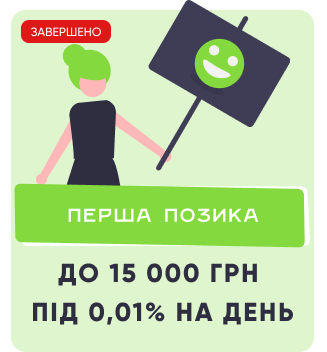
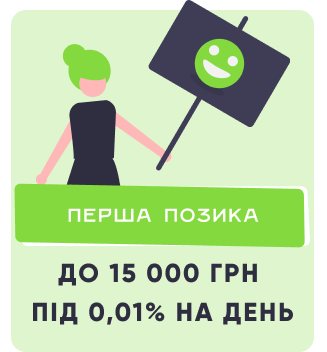
ss

Changed region(s): [[0.0612, 0.0312, 0.3364, 0.125]]

diff --git a/promotions.html b/promotions.html
@@ -92,6 +92,7 @@
                     <div class="promotionsImg">
                         <img src="img/promotionsImg.png" alt="Qcredit" class="promotionsImgDesctop">
                         <img src="img/promotionsImgMobile3.png" alt="Qcredit" class="promotionsImgMobile">
+                        <p>Діюча</p>
                     </div>
                     <div class="promotionsText">
                         <span>14.12.2022</span>
@@ -105,6 +106,7 @@
                     <div class="promotionsImg">
                         <img src="img/promotionsImg2.png" alt="Qcredit" class="promotionsImgDesctop">
                         <img src="img/promotionsImgMobile2.png" alt="Qcredit" class="promotionsImgMobile">
+                        <p>Діюча</p>
                     </div>
                     <div class="promotionsText">
                         <span>14.12.2022</span>
@@ -118,6 +120,7 @@
                     <div class="promotionsImg">
                         <img src="img/promotionsImg3.png" alt="Qcredit" class="promotionsImgDesctop">
                         <img src="img/promotionsImgMobile1.png" alt="Qcredit" class="promotionsImgMobile">
+                        <p class="red">завершено</p>
                     </div>
                     <div class="promotionsText">
                         <span>14.12.2022</span>

diff --git a/style/style.css b/style/style.css
@@ -1857,6 +1857,28 @@ footer {
 .promotions {
     padding-bottom: 40px;
 }
+.promotionsImg {
+    position: relative;
+}
+.promotionsImg p {
+    position: absolute;
+    top: 30px;
+    left: 10px;
+    font-size: 14px;
+    line-height: 160%;
+    text-align: center;
+    text-transform: uppercase;
+    color: #141414;
+    padding: 6.5px 42px;
+    background: #84D93F;
+    border-radius: 10px;
+    font-family: 'Gilroy-Semibold';
+}
+.promotionsImg .red {
+    background: #DF1818;
+    border-radius: 10px;
+    color: #FFFFFF;
+}
 .promotionsImg img {
     max-width: 100%;
     width: 100%;
@@ -2288,6 +2310,10 @@ footer {
     header .wrapper > .headerNavigation {
         display: none;
     }
+    .promotionsImg p {
+        top: 13px;
+        left: 3px;
+    }
     .allTable h3 {
         font-size: 18px;
     }
@@ -2483,6 +2509,11 @@ footer {
     .partnerSliderItem {
         height: 66px;
         border-radius: 15px;
+    }
+    .promotionsImg p {
+        top: 22px;
+        left: 17px;
+        padding: 6.5px 12px;
     }
     .promotionsText a {
         margin: 0 auto;
